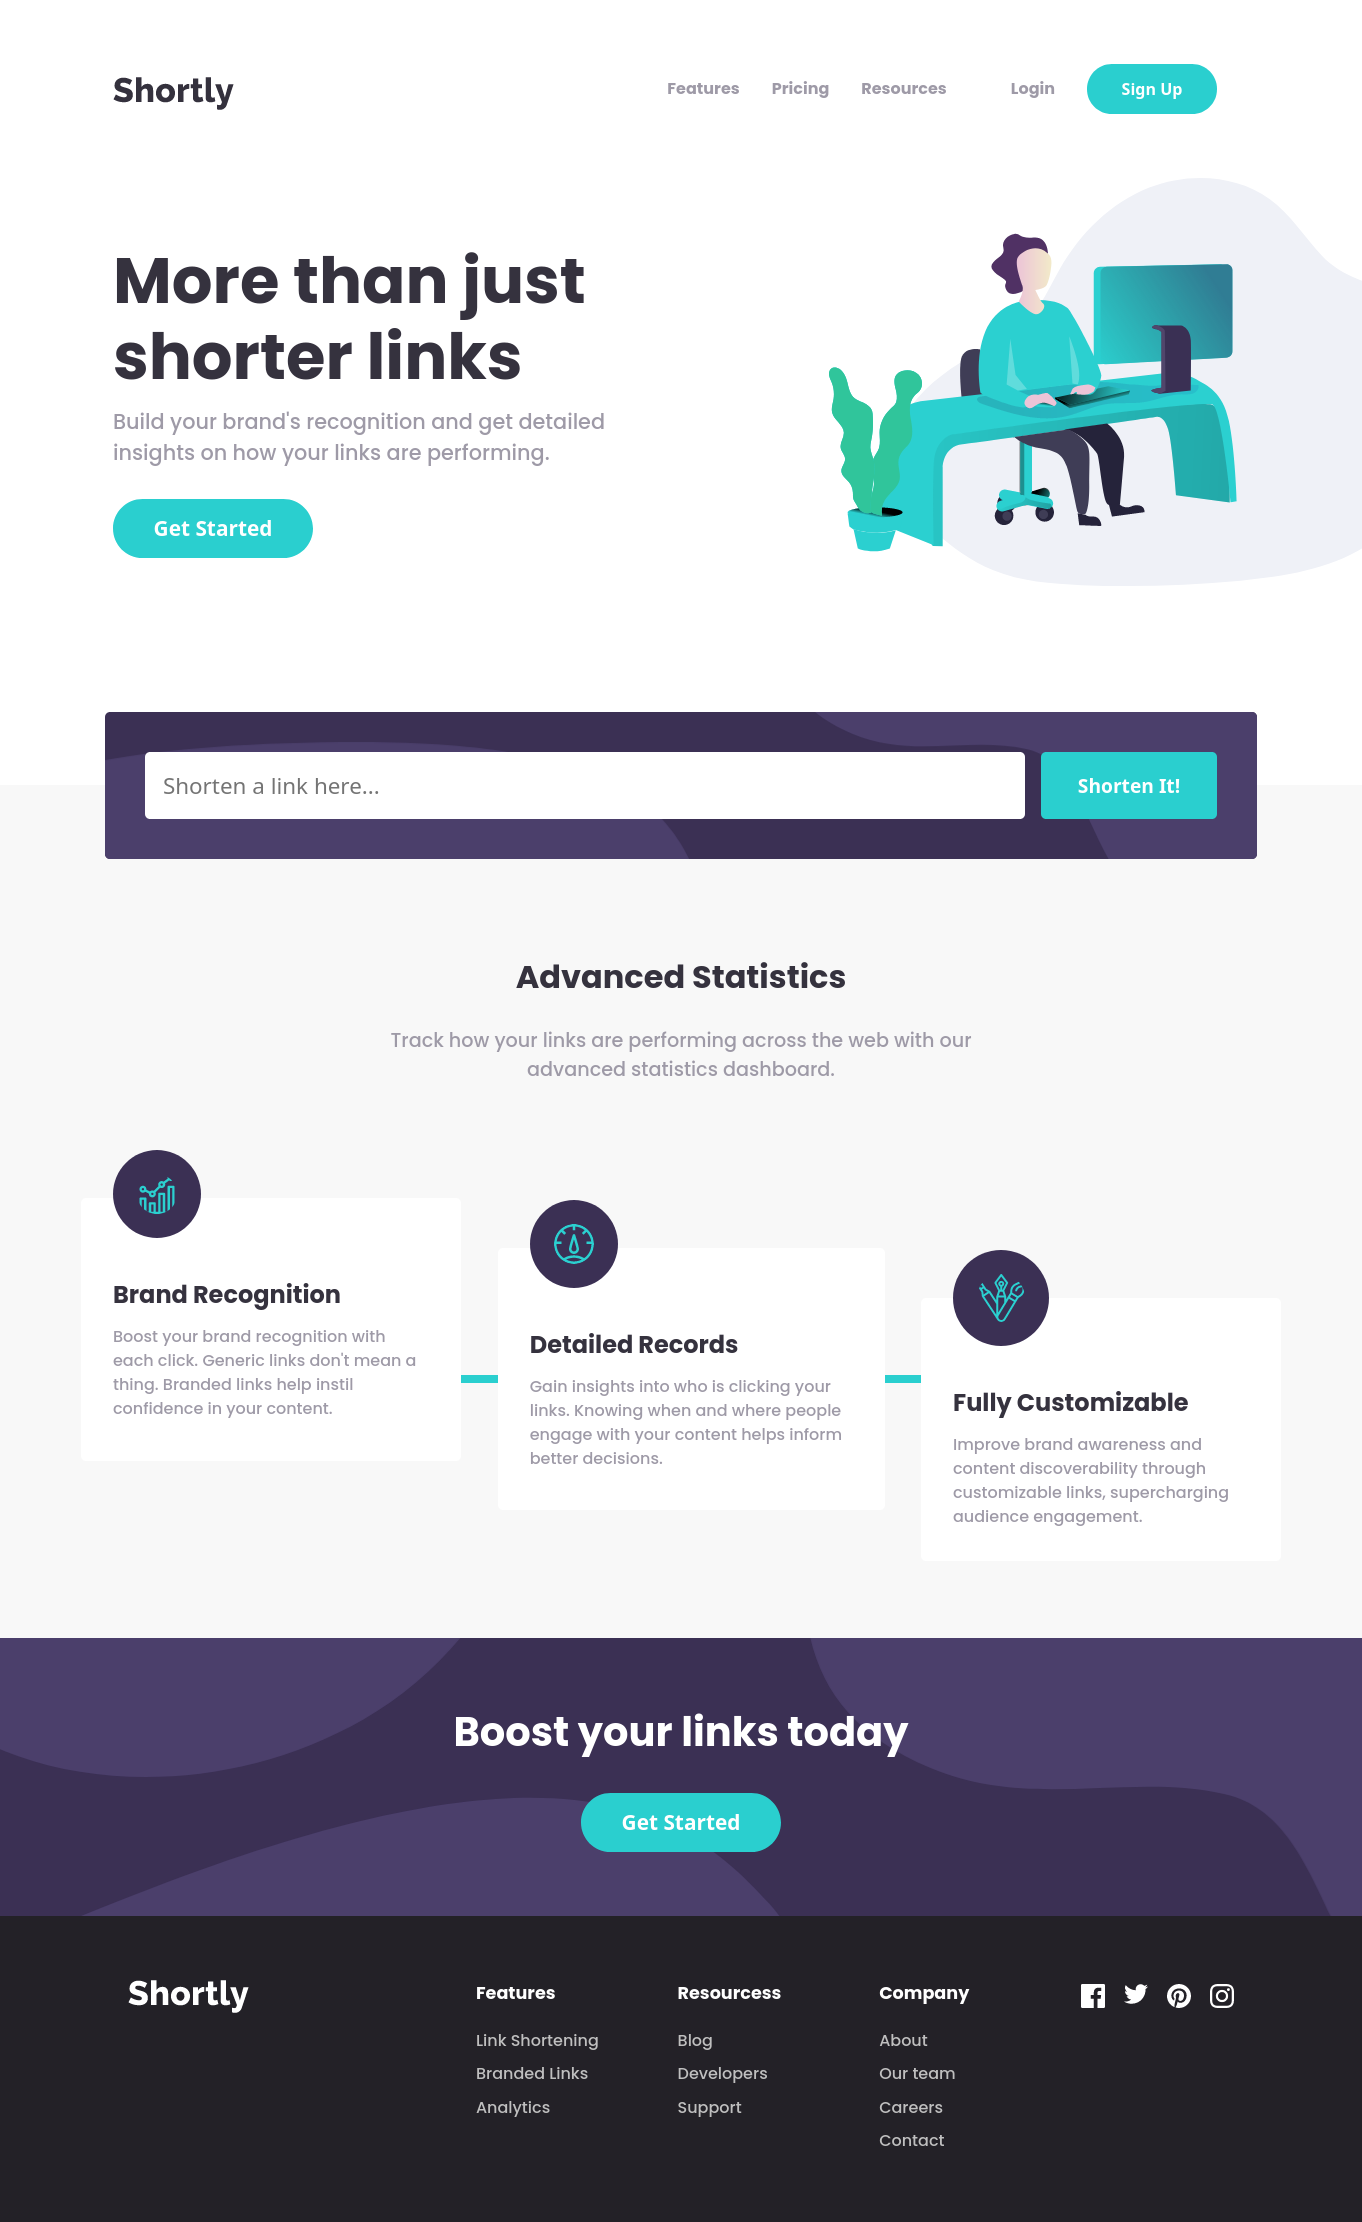
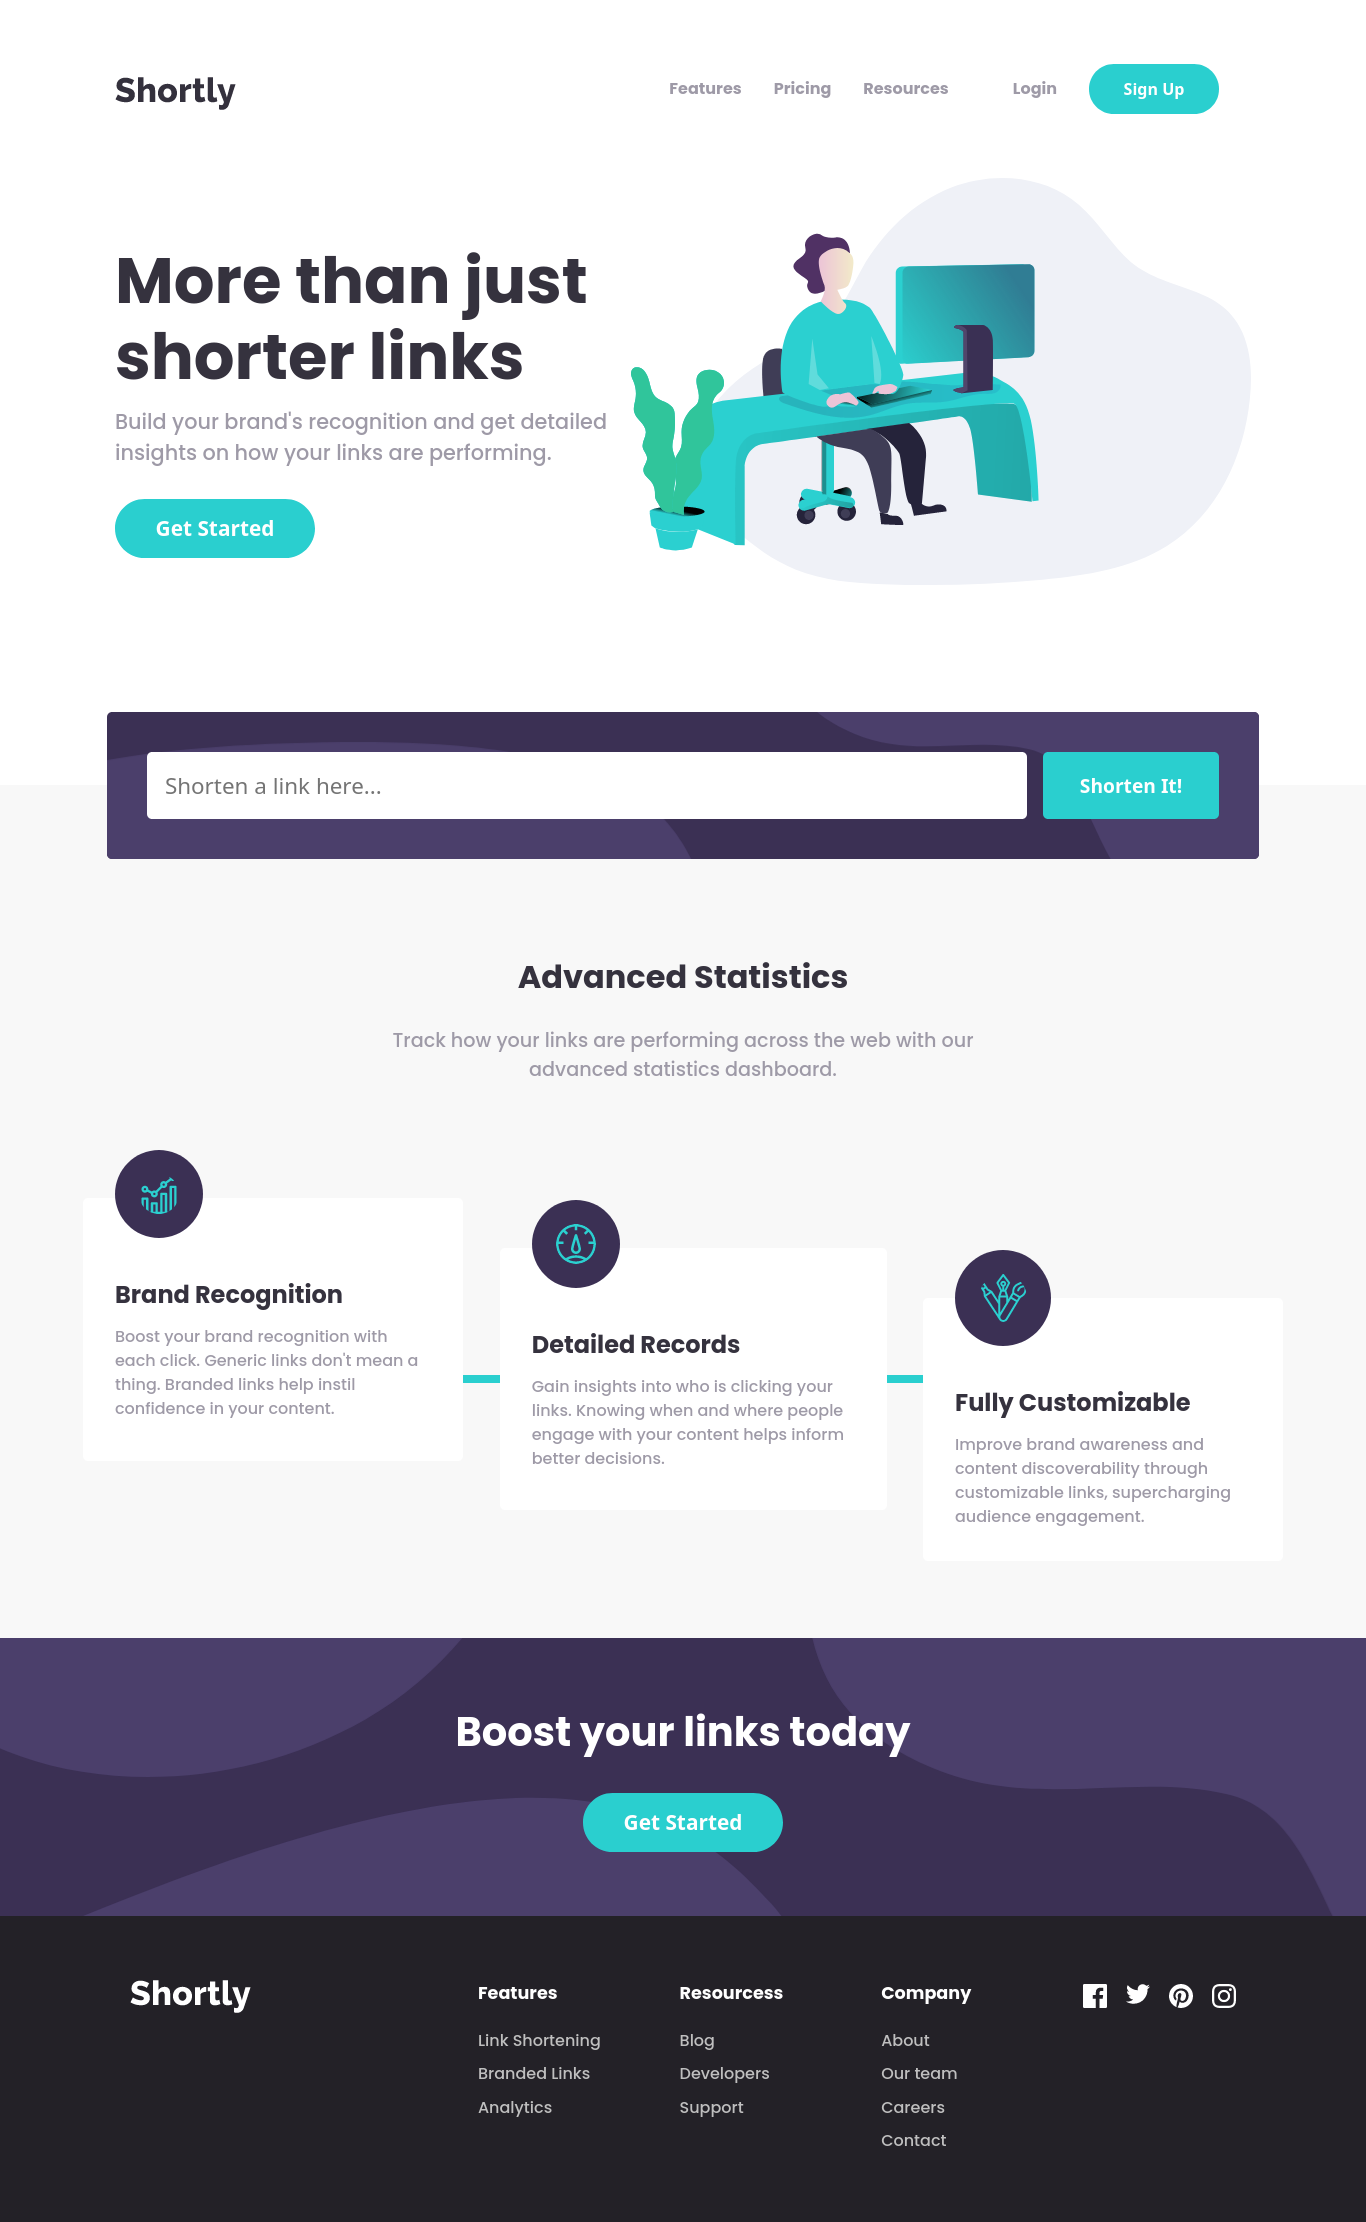
some fixes

diff --git a/src/js/controller.js b/src/js/controller.js
@@ -23,6 +23,7 @@ const controlShowLinks = async function () {
     await modul.getShortenedLink(View._inputUrl.value);
     modul.setLocalStorage();
     View.render(modul.linkData.originalLink, modul.linkData.shortenedLink);
+
     document.querySelector(".loader").style.removeProperty("display");
   } catch (err) {
     View.renderError(err.message);
@@ -32,6 +33,11 @@ const controlShowLinks = async function () {
 const controlLoadLinks = function () {
   const data = modul.getLocalStorage("links");
   if (data.length === 0) return;
+
+  // remove the "http:// || https://" so they can be correctly comparable above
+  data.forEach(data => inputUrlVal.push(data.originalLink.slice(data.originalLink.indexOf("/") + 2)));
+
+  modul.links.push(...data);
 
   // render from local storage
   data.forEach(item => View.render(item.originalLink, item.shortenedLink));

diff --git a/src/js/modul.js b/src/js/modul.js
@@ -1,7 +1,7 @@
 import "regenerator-runtime";
 
 import { AJAX } from "./helpers";
-import { API_URL } from "./config";
+import { API_URL, TIMEOUT_SEC_STORAGE } from "./config";
 
 export let linkData = {};
 
@@ -29,4 +29,7 @@ export const getLocalStorage = function () {
   return JSON.parse(localStorage.getItem('links')) || [];
 };
 
-// localStorage.clear();
+// clear local sotrage after 3 hours
+setTimeout(function () {
+  localStorage.clear();
+}, TIMEOUT_SEC_STORAGE * 1000);

diff --git a/src/css/style.css b/src/css/style.css
@@ -508,7 +508,6 @@ footer {
 /* ===============media queries============== */
 @media (min-width:1100px) {
     header {
-        /* overflow-x: initial; */
         height: 100vh;
     }
 
@@ -598,7 +597,6 @@ footer {
     }
 
     .header__main-content img {
-        transform: translateX(200px);
         order: 1;
         max-width: 700px;
         -o-object-fit: cover;

diff --git a/index.html b/index.html
@@ -181,7 +181,7 @@
     </footer>
 
     <p class="attribution">
-      Coded by <a href="#">Ismail</a>.
+      Coded by <a href="https://github.com/Ismail970">Ismail</a>.
     </p>
   </body>
 

diff --git a/src/js/config.js b/src/js/config.js
@@ -1,3 +1,4 @@
 export const API_URL = "https://api.shrtco.de/v2/shorten";
 export const TIMEOUT_SEC = 10;
 export const TIMEOUT_SEC_BTN = 5;
+export const TIMEOUT_SEC_STORAGE = 3 * 60 * 60;
